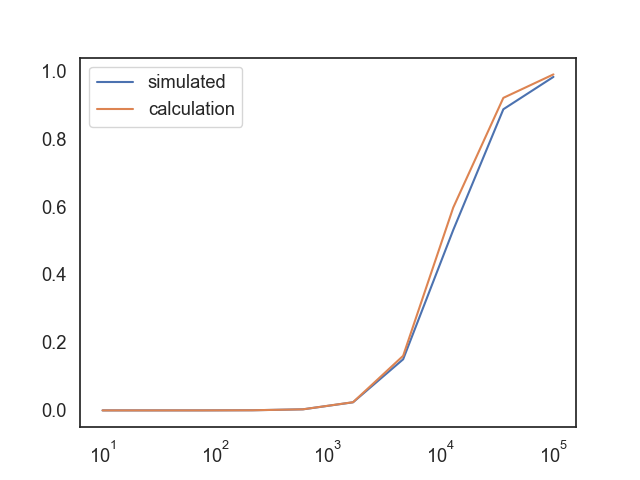
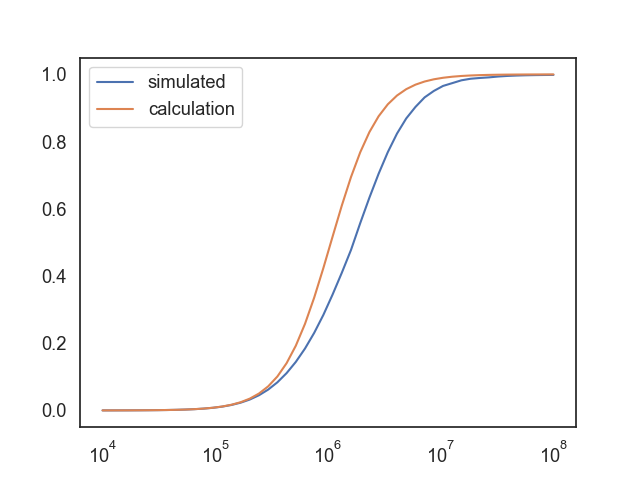
stuff and more stuff

diff --git a/HighPassFilterBodePlotWorking.py b/HighPassFilterBodePlotWorking.py
@@ -1,64 +1,60 @@
 from modsim import *
 
-init = State(Vin=0,
-             Vm=0,
+init = State(Vm=0,
              Vout=0)
 
-params = Params(R1=150, #Resistor value 1
-         R2=150) #resistor value 2
+params = Params(R1=10000, #Resistor value 1
+         R2=10000) #resistor value 2
 
 
-setsystem = System(f1=1, #10^f1 freq lower bound
-                    f2=5, #10^f2 freq upper bound
-                    tau1 = 1.5e-5,
-                    tau2 = 1.5e-5,
-                    A=0.5, #Amplitude of Vin wave
-                    init=init,
-                    t0=0,
-                    freqs = 10, #number of frequencies to sweep through
-                    stepres = 200,
-                    numwavels = 4) #num of wavelengths simulated per freq)
+setsystem = System(tau = 1.5e-7,
+                   A=0.5, #Amplitude of Vin wave
+                   init=init,
+                   t0=0,
+                   freqs = 50, #number of frequencies to sweep through
+                   stepres = 200,
+                   numwavels = 4) #num of wavelengths simulated per freq)
 
 def make_system(params, setsystem):
-'''
-	@param params: the configuration for the circuit (R1, R2)
+	#@param params: the configuration for the circuit (R1, R2)
 
-	Creates a system object representing the circuit with the correct configuration.
-'''
+	#reates a system object representing the circuit with the correct configuration.
+    R1, R2 = params
+
     setsystem.set(params = params)
+    setsystem.set(C1 = setsystem.tau/R1, C2 = setsystem.tau/R2)
+    fc = 1/(2*np.pi*setsystem.tau)
+    flow = int(np.log10(fc))-2
+    fhigh = int(np.log10(fc))+2
+    setsystem.set(f1 = flow, f2 = fhigh)
     system = setsystem
     return system
 
 def slope_func(init, t, system):
-'''
-	@param init: the initial state of the system 
-	@param t: the time at which this function will be evaluated 
-	@param system: the system object 
 
-	Returns the changes in Vin, Vm, and Vout
-'''
+	#@param init: the initial state of the system
+	#@param t: the time at which this function will be evaluated
+	#@param system: the system object
+
+	#Returns the changes in Vin, Vm, and Vout
     unpack(system)
     R1, R2 = system.params
 
-    # Calculates C1, C2 based on R1 and R2
-    C1 = tau1/R1
-    C2 = tau2/R2
-
-    vin, vm, vout = init
+    vm, vout = init
 
     # ODEs for Vin, Vm, Vout
     dvin = 2 * np.pi * A * f * np.cos(2*np.pi*f*t)
     dvm = dvin - (vm/R1 + vout/R2) / C1
     dvout = dvm - vout / (R2*C2)
 
-    return dvin, dvm, dvout
+    return dvm, dvout
 
 def run_bode(system):
-'''
-	@param system: the system object 
 
-	Generates a bode plot for a series of frequencies 
-'''
+	#@param system: the system object
+
+	#Generates a bode plot for a series of frequencies
+
     unpack(system)
 
     # Creates a set of frequencies on a log scale
@@ -83,8 +79,6 @@ def run_bode(system):
 def run_calc(system):
     unpack(system)
     R1, R2 = system.params
-    C1 = tau1/R1
-    C2 = tau2/R2
 
     farray = np.logspace(f1, f2, freqs)
     C = TimeSeries()
@@ -99,6 +93,7 @@ def run_calc(system):
     return C
 
 def error_func(params, setsystem):
+    print(params)
     system = make_system(params, setsystem)
 
     results = run_bode(system)
@@ -108,9 +103,9 @@ def error_func(params, setsystem):
 
     return errors
 
-best_params, fit_details = fit_leastsq(error_func, params, setsystem, maxfev=1)
+best_params, fit_details = fit_leastsq(error_func, params, setsystem, maxfev=7)
 
-print(best_params, setsystem.tau1/best_params.R1, setsystem.tau2/best_params.R2)
+print(best_params, setsystem.tau/best_params.R1, setsystem.tau/best_params.R2)
 
 
 system = make_system(best_params, setsystem)
@@ -124,4 +119,3 @@ lns = lns1+lns2
 labs = [l.get_label() for l in lns]
 ax.legend(lns, labs, loc = 'best')
 savefig('graphs\BodePlotLowRes2.png')
-

diff --git a/individualFrequency.py b/individualFrequency.py
@@ -4,11 +4,11 @@ init = State(Vin=0,
              Vm=0,
              Vout=0)
 
-system = System(C1=10e-7, #Capacitor value 1
-                C2=10e-7, #Capacitor value 2
-                R1=15.8, #Resistor value 1
-                R2=15.8, #resistor value 2
-                f=100000,
+system = System(C1=10e-3, #Capacitor value 1
+                C2=10e-3, #Capacitor value 2
+                R1=10000, #Resistor value 1
+                R2=10000, #resistor value 2
+                f=10000,
                 A=0.5, #Amplitude of Vin wave
                 init=init,
                 t0=0,
@@ -27,9 +27,9 @@ def slope_func(init, t, system):
     return dvin, dvm, dvout
 
 def run_bode():
+    system.set(t_end = system.numwavels / system.f)
     unpack(system)
-    system.set(f=f, t_end = numwavels / f)
-    max_step = (system.t_end - t0) / (stepres)
+    max_step = (t_end - t0) / (stepres)
     results, details = run_ode_solver(system, slope_func, max_step = max_step)
     tail = int(details.nfev/(2*np.pi*numwavels))
     amplitudeM = results.Vout.tail(tail).ptp()
@@ -47,6 +47,7 @@ def run_bode():
     print(system.t_end-1/f)
 
     return results
+
 
 fig = plt.figure()
 ax = fig.add_subplot(111)
